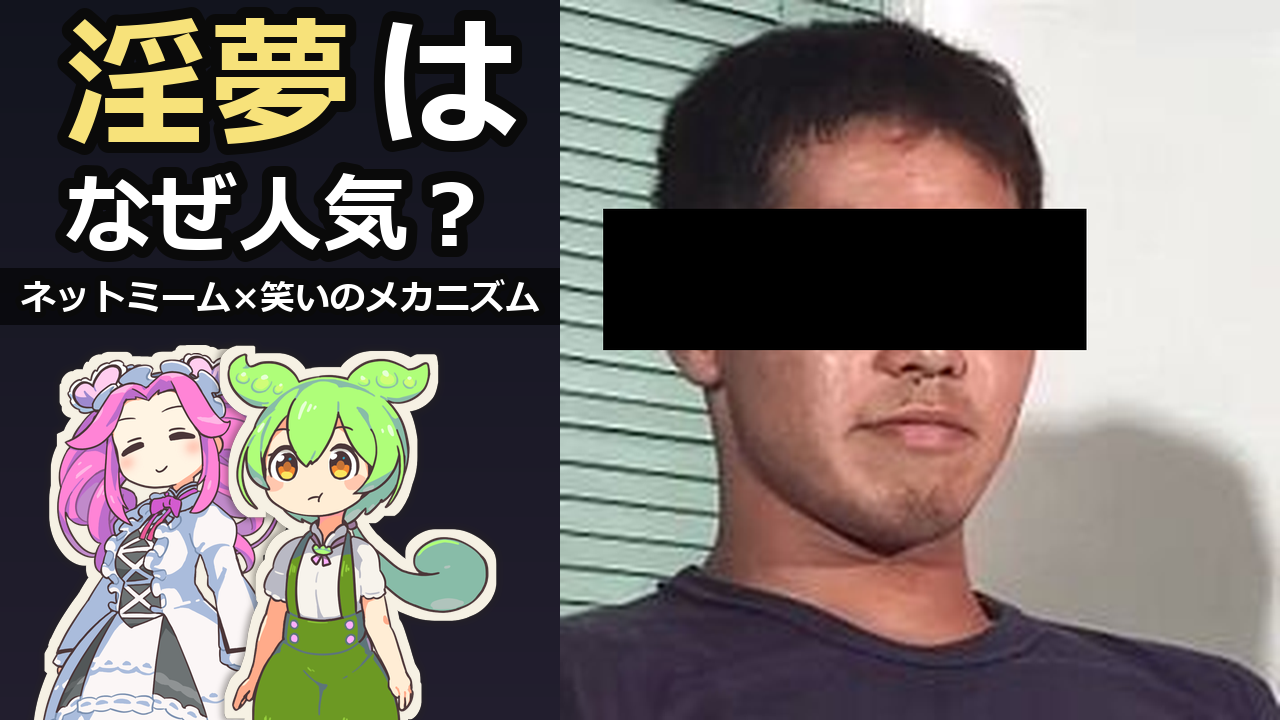
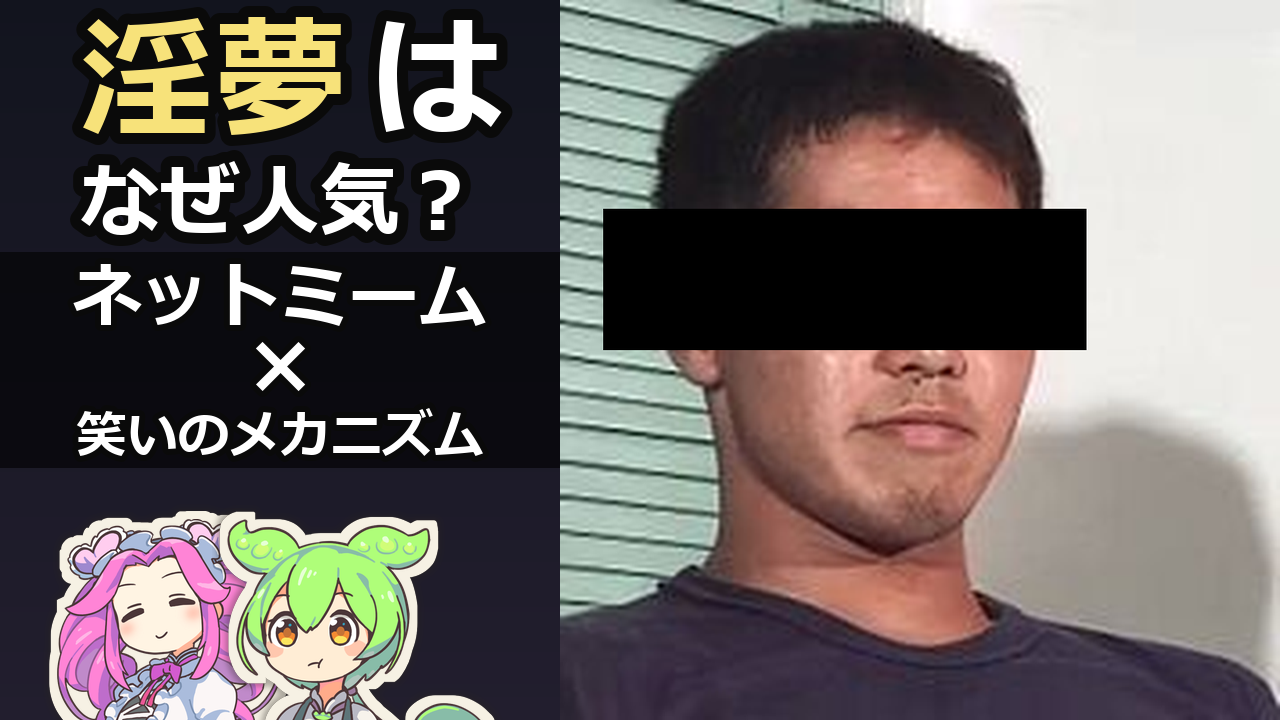
淫夢: サムネ A2 の副題を 3 行に拡大し、立ち絵を頭肩だけの配置に #32

Changed region(s): [[0.0, 0.0306, 0.4375, 1.0]]

diff --git a/publish/20260909-inmu-kamishibai/make_thumbs.py b/publish/20260909-inmu-kamishibai/make_thumbs.py
@@ -182,13 +182,12 @@ def make_thumb_a() -> Image.Image:
 
 
 def make_thumb_a2() -> Image.Image:
-    """A案 + 文言を大幅拡大（1行目は2段の特大文字）、左下にめたん・ずんだもんを大きく
-    （高さ76%、下端は画面外）配置する改訂版。
+    """A案 + 文言大幅拡大版の第3版。副題を3行（ネットミーム／×／笑いのメカニズム）に分割し、
+    めたん・ずんだもんは頭〜肩だけ見える位置まで下げる。
 
-    2026-09-09 二度目のユーザー指示: 「二人が小さすぎる、下半身が画面外にはみ出してよいので
-    腰から上を大きく見せる」との指摘を受け、立ち絵の高さを 38%→76% に拡大。その分の余白を
-    作るため、文言ブロック（2段の見出し＋副題）は上45%に収め、1段目フォントを幅最大値から
-    12%縮める。
+    2026-09-10 三度目のユーザー指示: 副題を3行に分けてそれぞれ拡大・黒帯は3行まとめて1枚、
+    1行目見出しは幅最大値から5〜10%分だけ追加で縮めて余白を作る、文言ブロック全体は上65%
+    以内、立ち絵は頭頂を画面高さ68〜72%まで下げて頭〜肩だけ見せる（胴体はほぼ画面外）。
     """
     bg = vertical_gradient(W, H, (18, 20, 30), (34, 30, 46))
 
@@ -201,47 +200,67 @@ def make_thumb_a2() -> Image.Image:
     draw = ImageDraw.Draw(bg)
     stroke_big = 11
 
-    # 1行目: 「淫夢は」「なぜ人気？」を2段。まず幅いっぱいに最大化し、そこから12%縮めて
-    # 文言ブロックを上45%以内に収める。
+    # 1行目: 「淫夢は」「なぜ人気？」を2段。幅いっぱいの最大値から22%縮め、副題3行分の
+    # 余白を作る（前版の12%縮小から更に約10%分の追加縮小＝5〜10%の指示範囲）。
     text_max_w = round(left_w * 0.95)
     f1a_full = fit_bold_font("淫夢は", max_width=text_max_w, max_height=round(H * 0.42), stroke_width=stroke_big)
     f1b_full = fit_bold_font("なぜ人気？", max_width=text_max_w, max_height=round(H * 0.42), stroke_width=stroke_big)
-    shrink = 0.84
-    f1a = _font(round(f1a_full.size * shrink))
-    f1b = _font(round(f1b_full.size * shrink))
+    shrink1 = 0.78
+    f1a = _font(round(f1a_full.size * shrink1))
+    f1b = _font(round(f1b_full.size * shrink1))
     bbox_1a = draw.textbbox((0, 0), "淫夢は", font=f1a, stroke_width=stroke_big)
     h_1a = bbox_1a[3] - bbox_1a[1]
     bbox_1b = draw.textbbox((0, 0), "なぜ人気？", font=f1b, stroke_width=stroke_big)
     h_1b = bbox_1b[3] - bbox_1b[1]
 
-    line_gap = round(H * 0.008)
-    top_y = round(H * 0.01)
+    line_gap = round(H * 0.006)
+    top_y = round(H * 0.008)
     y1a = top_y + h_1a / 2
     y1b = top_y + h_1a + line_gap + h_1b / 2
     draw_mixed_center(bg, [("淫夢", YELLOW), ("は", WHITE)], left_center_x, round(y1a), f1a, stroke_width=stroke_big)
     draw_mixed_center(bg, [("なぜ人気？", WHITE)], left_center_x, round(y1b), f1b, stroke_width=stroke_big)
     text_block_bottom = y1b + h_1b / 2
 
-    # 2行目（副題）: 半透明の黒帯を敷いてから、幅いっぱいの最大サイズで重ねる。
+    # 副題: 「ネットミーム」「×」「笑いのメカニズム」の3行。各行を自分の文字数で幅いっぱいまで
+    # 最大化した上で、文言ブロックが上65%に収まるよう一律スケール（shrink2）を掛ける。
+    # 「×」はネットミーム行の1.2倍サイズで中央寄せ。黒帯は3行分まとめて1枚に敷く。
     stroke_sub = 6
-    f2 = fit_bold_font(LINE2_TEXT_A2, max_width=round(left_w * 0.97), max_height=round(H * 0.07), stroke_width=stroke_sub)
-    bbox_2 = draw.textbbox((0, 0), LINE2_TEXT_A2, font=f2, stroke_width=stroke_sub)
-    h_2 = bbox_2[3] - bbox_2[1]
+    sub_max_w = round(left_w * 0.97)
+    f_net_full = fit_bold_font("ネットミーム", max_width=sub_max_w, max_height=round(H * 0.20), stroke_width=stroke_sub)
+    f_warai_full = fit_bold_font("笑いのメカニズム", max_width=sub_max_w, max_height=round(H * 0.20), stroke_width=stroke_sub)
+    shrink2 = 0.78
+    f_net = _font(round(f_net_full.size * shrink2))
+    f_warai = _font(round(f_warai_full.size * shrink2))
+    f_times = _font(round(f_net.size * 1.2))
+
+    bbox_net = draw.textbbox((0, 0), "ネットミーム", font=f_net, stroke_width=stroke_sub)
+    h_net = bbox_net[3] - bbox_net[1]
+    bbox_times = draw.textbbox((0, 0), "×", font=f_times, stroke_width=stroke_sub)
+    h_times = bbox_times[3] - bbox_times[1]
+    bbox_warai = draw.textbbox((0, 0), "笑いのメカニズム", font=f_warai, stroke_width=stroke_sub)
+    h_warai = bbox_warai[3] - bbox_warai[1]
+
+    sub_line_gap = round(H * 0.004)
     band_pad = round(H * 0.008)
     band_top = round(text_block_bottom + H * 0.008)
-    band_bottom = band_top + h_2 + band_pad * 2
+    y_net = band_top + band_pad + h_net / 2
+    y_times = band_top + band_pad + h_net + sub_line_gap + h_times / 2
+    y_warai = band_top + band_pad + h_net + sub_line_gap + h_times + sub_line_gap + h_warai / 2
+    band_bottom = round(y_warai + h_warai / 2 + band_pad)
+
     band = Image.new("RGBA", (left_w, band_bottom - band_top), (0, 0, 0, round(255 * 0.60)))
     bg.alpha_composite(band, (0, band_top))
-    y2 = (band_top + band_bottom) / 2
-    draw_mixed_center(bg, [(LINE2_TEXT_A2, WHITE)], left_center_x, round(y2), f2, stroke_width=stroke_sub)
+    draw_mixed_center(bg, [("ネットミーム", WHITE)], left_center_x, round(y_net), f_net, stroke_width=stroke_sub)
+    draw_mixed_center(bg, [("×", WHITE)], left_center_x, round(y_times), f_times, stroke_width=stroke_sub)
+    draw_mixed_center(bg, [("笑いのメカニズム", WHITE)], left_center_x, round(y_warai), f_warai, stroke_width=stroke_sub)
 
-    # 立ち絵: 高さ76%（下端は画面外にはみ出させ、腰から上を大きく見せる）。
-    # 頭頂は画面高さ47%あたり（文言ブロックの下、45〜50%の指示範囲）。ずんだもんを手前に
-    # （後から貼るレイヤーが手前になる）、左下で少し重ねる。
+    # 立ち絵: 高さ76%は変えず、頭頂を画面高さ70%まで下げ、頭〜肩だけ見せる（胴体はほぼ画面外）。
+    # 黒帯（band_bottom）との間に十分な余白があるため左右シフトは不要。ずんだもんを手前に
+    # （後から貼るレイヤーが手前）、左下で少し重ねる。
     puppet_h = round(H * 0.76)
     metan = load_puppet("metan", "smile", puppet_h)
     zun = load_puppet("zundamon", "normal", puppet_h)
-    head_top_y = round(H * 0.47)
+    head_top_y = round(H * 0.70)
     metan_cx = round(left_w * 0.30)
     zun_cx = round(left_w * 0.64)
     paste(bg, metan, metan_cx - metan.width / 2, head_top_y)

diff --git a/publish/20260909-inmu-kamishibai/upload-record.md b/publish/20260909-inmu-kamishibai/upload-record.md
@@ -17,3 +17,4 @@
 - 2026-09-09 v3のmp4がBGM合成後のリネームで`PermissionError`により失敗し、BGM無音・終了カード欠落のまま完成扱いになっていたと判明（原因: 外部プロセスがレンダ中の出力ファイルに触れロックした可能性。以後レンダ完了はプロセス終了で判定し、レンダ中はmp4に一切触れない運用に変更）。同一コマンドでv4を再レンダしBGM・終了カードの欠落を解消、5JoI3gcldJkとしてアップロード。
 - 2026-09-09 v4アップロード直後のstatus確認ではprocessingProgressが1000/1000に達していない（processingStatus: processing）ため、旧v3（B1JKysi6C70）の削除は**保留**。v3は欠陥版のため試写・公開判断には使わないこと。処理完了確認後にオーケストレーターまたは次の作業で削除する。
 - 2026-09-09 v4（5JoI3gcldJk）の処理 1000/1000 を確認し、欠陥版 v3（B1JKysi6C70）を削除。
+- 2026-09-10 A2 を再調整（副題を「ネットミーム／×／笑いのメカニズム」の 3 行にして拡大、二人は頭〜肩だけ見える位置へ）。5JoI3gcldJk に適用。
